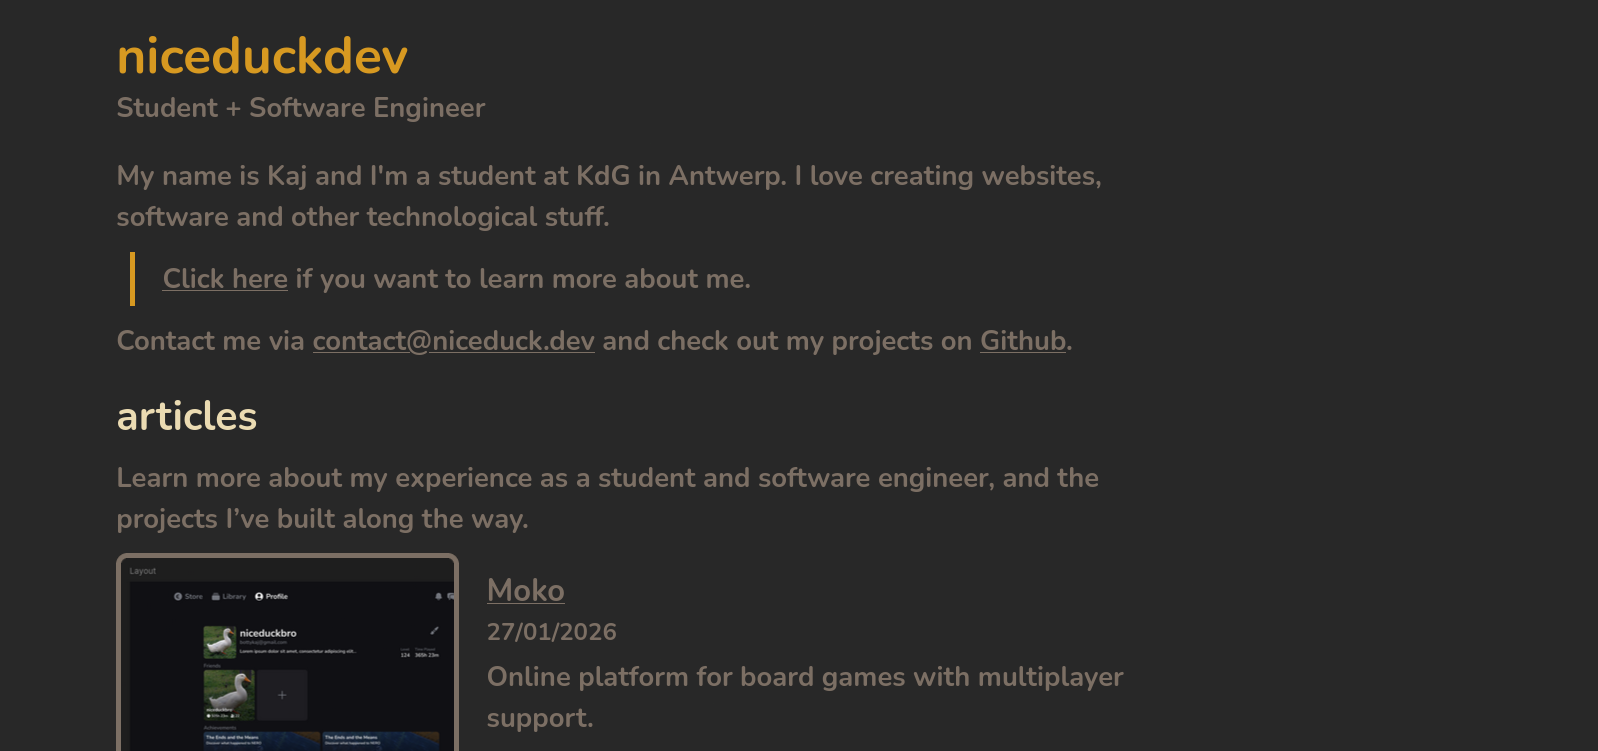
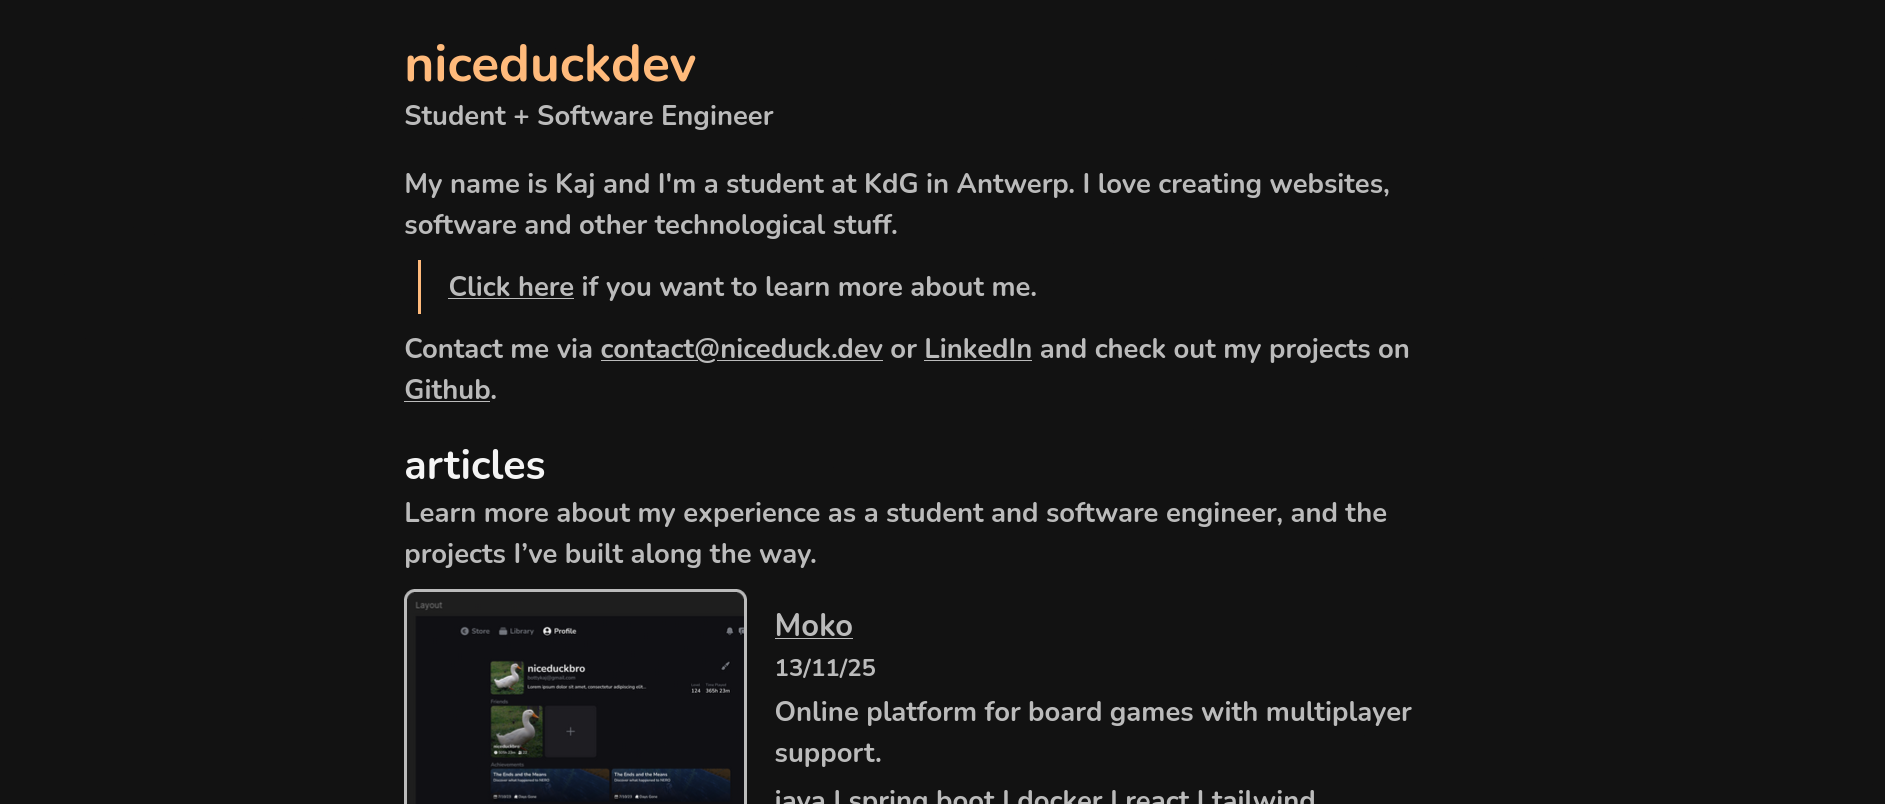
refactor images + styles

diff --git a/src/plugins/jellybean.ts b/src/plugins/jellybean.ts
@@ -1,0 +1,61 @@
+const jellybean = {
+    name: "jellybean",
+    type: "dark",
+    colors: {
+        "editor.background": "#121212",
+        "editor.foreground": "#dedede",
+        "editorLineNumber.foreground": "#929292",
+    },
+    tokenColors: [
+        {
+            scope: ["comment", "punctuation.definition.comment"],
+            settings: {
+                foreground: "#929292",
+                fontStyle: "italic",
+            },
+        },
+        {
+            scope: ["string", "punctuation.definition.string"],
+            settings: {
+                foreground: "#94b979",
+            },
+        },
+        {
+            scope: ["keyword", "storage.type", "storage.modifier"],
+            settings: {
+                foreground: "#e27373",
+                fontStyle: "bold",
+            },
+        },
+        {
+            scope: [
+                "constant.numeric",
+                "constant.language",
+                "constant.character",
+            ],
+            settings: {
+                foreground: "#ffba7b",
+            },
+        },
+        {
+            scope: ["entity.name.function", "support.function"],
+            settings: {
+                foreground: "#97bedc",
+            },
+        },
+        {
+            scope: ["entity.name.type", "support.type", "support.class"],
+            settings: {
+                foreground: "#e1c0fa",
+            },
+        },
+        {
+            scope: ["entity.other.attribute-name"],
+            settings: {
+                foreground: "#00988e",
+            },
+        },
+    ],
+};
+
+export default jellybean;

diff --git a/src/styles/global.css b/src/styles/global.css
@@ -12,16 +12,15 @@
     --font-sans: "Nunito", "sans-serif";
     --font-code: "Mononoki", "code";
 
-    --color-gruvbox-bg: #282828;
-    --color-gruvbox-fg: #ebdbb2;
-    --color-gruvbox-fg-2: #7c6f64;
-    --color-gruvbox-accent: #d79921;
+    --color-gruvbox-bg: #121212;
+    --color-gruvbox-fg: #f4f4f4;
+    --color-gruvbox-fg-2: #bbbbbb;
+    --color-gruvbox-accent: #ffba7b;
 
-    --color-gruvbox-bg-l: #fbf1c7;
-    --color-gruvbox-fg-l: #3c3836;
-    --color-gruvbox-fg-2-l: #7c6f64;
-    --color-gruvbox-accent-l: #d79921;
+    --color-gruvbox-bg-l: #f4f4f4;
+    --color-gruvbox-fg-l: #121212;
+    --color-gruvbox-fg-2-l: #121212;
+    --color-gruvbox-accent-l: #6099c0;
 }
-
 
 @import "./content.css";

diff --git a/src/services/article.ts b/src/services/article.ts
@@ -1,4 +1,3 @@
-import { sortOnDate } from "@lib/date";
 import { fromContent, type Article } from "@models/article";
 import { getCollection, render, type RenderResult } from "astro:content";
 
@@ -12,8 +11,15 @@ export async function getArticles(all: boolean = false): Promise<Article[]> {
     );
 }
 
+function sortOnDate(collection: Article[]): Article[] {
+    return collection.sort((a: Article, b: Article) => {
+        return new Date(b.date).getTime() - new Date(a.date).getTime();
+    });
+}
+
 export async function getPaths() {
     const articles = await getArticles(true);
+
     return articles.map((article) => ({
         params: { slug: article.slug },
         props: { article },

diff --git a/src/lib/date.ts b/src/lib/date.ts
@@ -1,14 +1,6 @@
-import type { Article } from "@models/article";
-
 export function formatDate(date: Date) {
     const day = String(date.getDate()).padStart(2, "0");
     const month = String(date.getMonth() + 1).padStart(2, "0");
     const year = date.getFullYear().toString().substring(2);
     return `${day}/${month}/${year}`;
-}
-
-export function sortOnDate(collection: Article[]) {
-    return collection.sort((a, b) => {
-        return new Date(b.date).getTime() - new Date(a.date).getTime();
-    });
 }

diff --git a/src/styles/content.css b/src/styles/content.css
@@ -3,7 +3,7 @@
 }
 
 #content strong {
-    @apply font-bold dark:text-gruvbox-fg text-gruvbox-bg;
+    @apply font-bold dark:text-gruvbox-accent text-gruvbox-accent-l;
 }
 
 #content h1 {
@@ -11,7 +11,7 @@
 }
 
 #content img {
-    @apply rounded-md border-3;
+    @apply rounded-md border-2 my-2;
 }
 
 #content ul {
@@ -27,7 +27,7 @@
 }
 
 #content pre {
-    @apply p-2 rounded-md;
+    @apply p-2 my-2 rounded-md border-2;
 }
 
 #content pre code {

diff --git a/src/content/moko.md b/src/content/moko.md
@@ -10,6 +10,8 @@ date: 2025-11-13
 
 Our goal was to create a platform where users could buy digital board games, play them with friends, and build a community without jumping between different services.
 
+> I was mainly responsible for designing and building the platform frontend. I also spent considerable time refactoring backend microservices (mainly the transport and service layers) so they worked smoothly with the frontend.
+
 # Core Features
 > **Store & Library Management**<br>
 > Browse and purchase (integration with a payment service) digital board games + manage your personal library
@@ -121,7 +123,7 @@ The feedback that we got from our tutors was really positive, they appreciated t
 # Showcase
 You can check out the following demo video for a showcase of our platform.
 
-<iframe height="315" class="rounded-md border-4" src="https://www.youtube.com/embed/cTVb87V25zY?si=hOp5FZPEUvFjKMmi" title="YouTube video player" frameborder="0" allow="accelerometer; autoplay; clipboard-write; encrypted-media; gyroscope; picture-in-picture; web-share" referrerpolicy="strict-origin-when-cross-origin" allowfullscreen></iframe>
+<iframe height="315" class="rounded-md border-2" src="https://www.youtube.com/embed/cTVb87V25zY?si=hOp5FZPEUvFjKMmi" title="YouTube video player" frameborder="0" allow="accelerometer; autoplay; clipboard-write; encrypted-media; gyroscope; picture-in-picture; web-share" referrerpolicy="strict-origin-when-cross-origin" allowfullscreen></iframe>
 
 ![Store Page](store.webp)
 *Store Page showing Tic Tac Toe and Checkers*

diff --git a/src/content/stampot.md b/src/content/stampot.md
@@ -4,6 +4,7 @@ description: Online ordering platform for Chiro Stam.
 tags: ["vue", "pocketbase", "tailwind"]
 image: home.webp
 date: 2025-10-25
+hidden: true
 ---
 
 Every year, Chiro Stam hosts an event where members and their families can come together to enjoy a delicious spaghetti meal.
